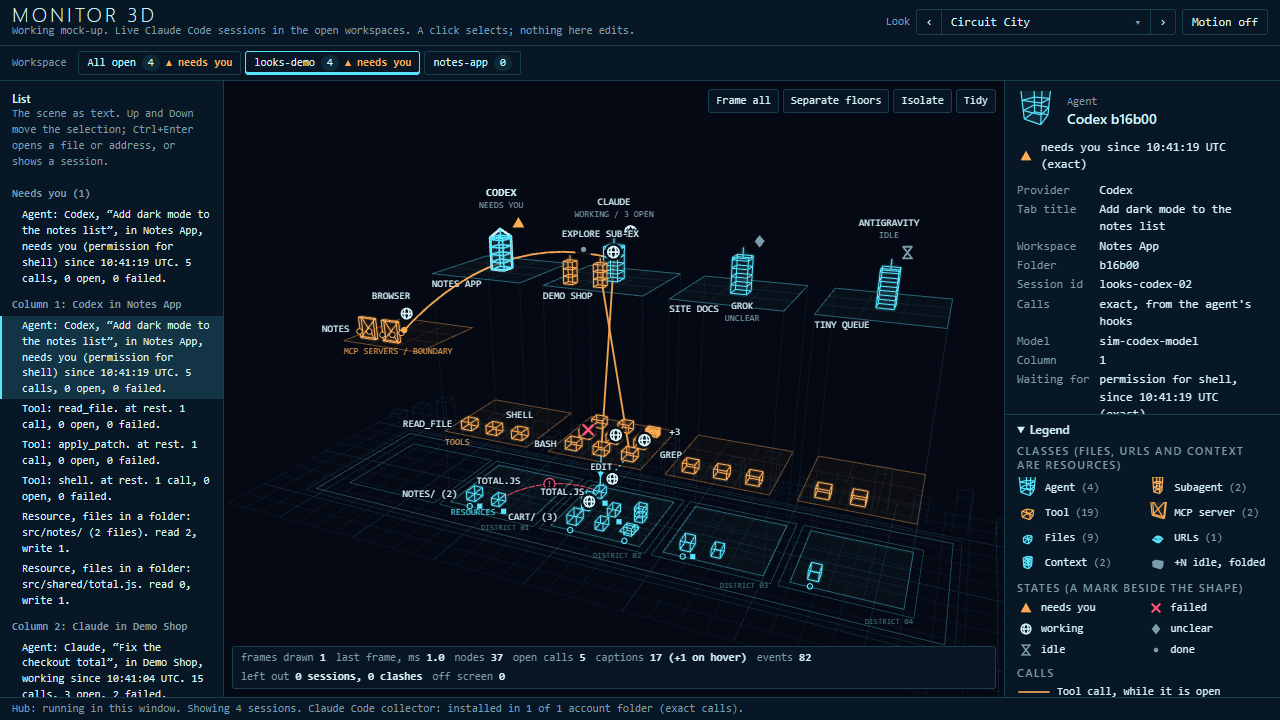
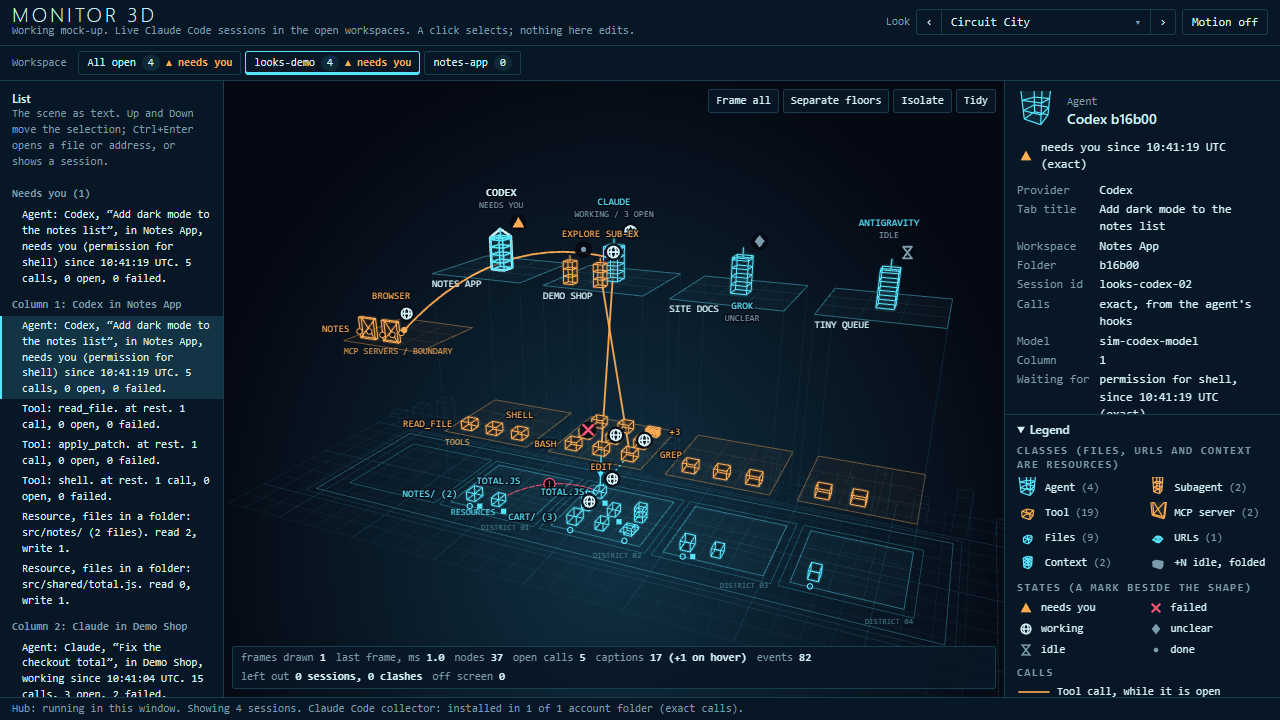
Looks: the five built originals take their own ground, caption colours and label font (card 5a6363)
lattice, circuit-city, orbital and synapse: the viewport's radial glow from the original's own
CSS, and each caption in its node's colour. glasshouse-original: its daylight gradient from above;
its two colours are under the caption floor (4.1 and 2.2 to 1), so its captions keep the page's teal.
circuit-city and orbital: the legend's small headings in the page's Consolas.
The five pictures are shot again; nexus, glasshouse and the two mock-ups shoot byte for byte as committed.

diff --git a/ui-concepts/monitor-3d-live/media/look-orbital.js b/ui-concepts/monitor-3d-live/media/look-orbital.js
@@ -13,8 +13,10 @@
  * contexts and accounts), scaled to a slot and standing on it; colours are the picture's (lilac globes for
  * agents, peach for the rest) and never a state's; the rings and stars are centred on the floors and sized
  * from them, and they stand still: nothing orbits. Left out: the moving planets and their moons' rings, the
- * workspace star's rings (there is no star node), the viewport's radial glow (a look has one background
- * colour), and separate corner radii for panels (16 px) and buttons (pills): one radius serves both.
+ * workspace star's rings (there is no star node), and separate corner radii for panels (16 px) and buttons
+ * (pills): one radius serves both. Kept since the contract's second round: the viewport's radial glow
+ * (palette.ground), each node's label in its own colour (palette.captionNode), and the panels' small labels
+ * in the page's Consolas under Georgia headings (page.labelFont).
  *
  * A look is palette, meshes, lettering and a still backdrop. It has no say in where a node stands.
  */
@@ -78,11 +80,16 @@
       // The source's own: peach for "waiting", its alert for "blocked", its text and quiet text for the rest.
       state: { needs: C.secondary, failed: C.alert, working: C.text, unclear: C.muted, idle: C.muted, done: C.muted },
       clash: C.alert,
+      // worlds.css .orbit .viewport: radial-gradient(ellipse at center, #111e35, #02040c 75%).
+      ground: { shape: 'round', at: [.5, .5], stops: [[0, '#111e35'], [.75, '#02040c']] },
+      // The source's engine.js line 75: a node's label is in the node's own colour (the selected one in the text colour).
+      captionNode: true,
       fill: .06, solid: .55, floorFill: .02, floorLine: .3, post: .25, captionBack: 0, captionHalo: .85
     },
     page: {
       ui: "Consolas, 'Liberation Mono', monospace",
       headFont: "Georgia, 'Times New Roman', serif",
+      labelFont: "Consolas, 'Liberation Mono', monospace",   // worlds.css .panel-label: the body's --mono, 7px, spaced 1.3px
       titleFont: "Georgia, 'Times New Roman', serif", titleStyle: 'italic', titleWeight: '400', titleSize: '20px',
       titleSpacing: '-0.5px', titleCase: 'none', titleColor: C.text,
       labelSpacing: '1.3px', labelCase: 'uppercase', radius: '14px'

diff --git a/ui-concepts/monitor-3d-live/media/look-circuit-city.js b/ui-concepts/monitor-3d-live/media/look-circuit-city.js
@@ -13,7 +13,9 @@
  * a slot; colours are the picture's (cyan for agents and resources, amber for the rest) and never a state's;
  * the districts are the columns, numbered, not providers; the grid lies under the floors, not round a
  * downtown. Left out: the road traffic and every other thing that moves, the skybridges (they would cross
- * the floors), the downtown rings, the viewport's radial glow and scan lines (a look has one background colour).
+ * the floors), the downtown rings, and the viewport's scan lines. Kept since the contract's second round: the
+ * viewport's radial glow (palette.ground), each node's label in its own colour (palette.captionNode), and the
+ * panels' small labels in the page's Consolas under Segoe UI headings (page.labelFont).
  *
  * A look is palette, meshes, lettering and a still backdrop. It has no say in where a node stands.
  */
@@ -57,11 +59,16 @@
       // The source's own: amber for "waiting", its alert for "blocked", its text and quiet text for the rest.
       state: { needs: C.secondary, failed: C.alert, working: C.text, unclear: C.muted, idle: C.muted, done: C.muted },
       clash: C.alert,
+      // worlds.css .city .viewport: radial-gradient(ellipse at 50% 75%, #103143, var(--bg) 75%).
+      ground: { shape: 'round', at: [.5, .75], stops: [[0, '#103143'], [.75, C.bg]] },
+      // The source's engine.js line 75: a node's label is in the node's own colour (the selected one in the text colour).
+      captionNode: true,
       fill: .06, solid: .6, floorFill: .03, floorLine: .4, post: .35, captionBack: 0, captionHalo: .85
     },
     page: {
       ui: "Consolas, 'Liberation Mono', monospace",
       headFont: "'Segoe UI', Arial, sans-serif",
+      labelFont: "Consolas, 'Liberation Mono', monospace",   // worlds.css .panel-label: the body's --mono, 7px, spaced 1.3px
       titleFont: "'Segoe UI', Arial, sans-serif", titleStyle: 'normal', titleWeight: '300', titleSize: '20px',
       titleSpacing: '3px', titleCase: 'uppercase', titleColor: C.text,
       labelSpacing: '1.3px', labelCase: 'uppercase', radius: '3px'

diff --git a/ui-concepts/monitor-3d-live/media/look-lattice.js b/ui-concepts/monitor-3d-live/media/look-lattice.js
@@ -4,7 +4,8 @@
  * nexus-3d/ui-concepts/nexus-lattice-29d4d1/scene.js and style.css; picture docs/monitor-3d/img/before/lattice.png.
  * Taken as they are: the type colours (scene.js line 4), the octahedron, cube and ring meshes and their radii
  * (geometry() and nodeRadius()), the ground grid with every fourth line stronger, the three rings round the
- * centre and the four zone names lying on the ground (draw()), and the page's colours and lettering (style.css).
+ * centre and the four zone names lying on the ground (draw()), each label in its node's colour, and the page's colours
+ * and lettering and the stage's glow with its dark edges (style.css).
  * Changed: the original's twelve types are given to the monitor's five classes (agent the control cyan octahedron,
  * subagent the pale-blue smaller octahedron, tool the mint cube, MCP server the amber ring of main and remote,
  * resource the violet ring of context); the second violet and the second amber colour the resource and MCP floors,
@@ -72,6 +73,11 @@
       // label's white; the quiet ones: its grey-blue texts (#a6ccd4, --muted, .dim).
       state: { needs: '#ffce7b', failed: '#ff647f', working: '#e2fbff', unclear: '#a6ccd4', idle: '#7697a8', done: '#638493' },
       clash: '#ff647f',
+      // style.css .stage: radial-gradient(ellipse at 50% 75%, #0b2630 0%, #06111c 45%, #030910 95%): a glow low in the
+      // middle, dark edges.
+      ground: { shape: 'round', at: [.5, .75], stops: [[0, '#0b2630'], [.45, '#06111c'], [.95, '#030910']] },
+      // scene.js line 77: a node's label is in the node's own colour (the selected one in white).
+      captionNode: true,
       // Wireframe through and through: nothing filled and nothing hidden, as the original drew it.
       // captionHalo: the original's labels had a dark shadow (#020910, blur 4) round their letters.
       fill: 0, solid: 0, floorFill: 0, floorLine: .4, post: .45, captionBack: 0, captionHalo: .8

diff --git a/ui-concepts/monitor-3d-live/media/look-glasshouse-original.js b/ui-concepts/monitor-3d-live/media/look-glasshouse-original.js
@@ -16,8 +16,10 @@
  * - The original had no MCP server, URL or folded pile: an MCP server takes the original's integration slab
  *   (main / remote), a URL a smaller one, a file and a context the original's context chip, a pile the
  *   original's worktree plates.
- * - The title is 20 px, the most the bar holds (46 px in the original); the stage is one colour where the
- *   original had a faint gradient from #f5f7f1 to #e5ede4.
+ * - The title is 20 px, the most the bar holds (46 px in the original).
+ * - The original lettered each node in its own colour. Here every caption keeps the page's dark teal: on this pale
+ *   ground the original's two colours have a contrast of 4.1 and 2.2 to 1, under the 4.5 a caption must have
+ *   (LOOKS.md), so palette.captionNode would change nothing and is left out.
  *
  * Kept apart from its two relatives (`glasshouse`, `glasshouse-mockup`): two colours only, the original's flat
  * chips (an agent is a three-step chip, not a solid or a tower with a mast), lift shafts, the salmon floor,
@@ -60,6 +62,8 @@
       // have (it had one alert colour, and the two marks must be told apart by more than shape on a pale floor).
       state: { needs: '#b87700', failed: O.alert, working: O.text, unclear: O.muted, idle: O.muted, done: O.secondary },
       clash: O.alert,
+      // worlds.css line 8, .glass .viewport: linear-gradient(#f5f7f1, #e5ede4): daylight from above.
+      ground: { shape: 'straight', from: [.5, 0], to: [.5, 1], stops: [[0, '#f5f7f1'], [1, '#e5ede4']] },
       // Flat chips over clear glass. The original's labels stood on a soft shadow of the background: a halo.
       fill: .24, solid: .9, floorFill: .035, floorLine: .42, post: .3, captionBack: 0, captionHalo: .9
     },

diff --git a/ui-concepts/monitor-3d-live/media/look-synapse.js b/ui-concepts/monitor-3d-live/media/look-synapse.js
@@ -18,8 +18,9 @@
  * - The original had no MCP server, URL, file or folded pile: an MCP server takes the original account's
  *   loop with a bead in it, a file and a URL the original worktree's mint diamond, a context the
  *   original's context bead, a pile three small beads.
- * - The title is 20 px, the most the bar holds (49 px in the original); the stage is one colour, the
- *   original's ground, where the original was a little lighter towards the middle (#2f103b).
+ * - The title is 20 px, the most the bar holds (49 px in the original).
+ * Kept since the contract's second round: the viewport's glow, lighter a little left of the middle
+ * (palette.ground), and each node's label in its own colour (palette.captionNode).
  *
  * A look is palette, meshes and caption style. It has no say in where a node stands. See LOOKS.md.
  */
@@ -84,6 +85,10 @@
       // (engine.js line 4, #ffd48a); "done" the trunk's violet, quieter than idle's muted.
       state: { needs: '#ffd48a', failed: O.alert, working: O.text, unclear: O.muted, idle: O.muted, done: TRUNK },
       clash: O.alert,
+      // worlds.css line 10, .synapse .viewport: radial-gradient(ellipse at 45% 50%, #2f103b, #100817 75%).
+      ground: { shape: 'round', at: [.45, .5], stops: [[0, '#2f103b'], [.75, O.bg]] },
+      // The original's engine.js line 75: a node's label is in the node's own colour (the selected one in the text colour).
+      captionNode: true,
       // Wireframe beads with a soft glow; the original's labels stood on a shadow of the ground: a halo.
       fill: .08, solid: .85, floorFill: 0, floorLine: .22, post: .16, captionBack: 0, captionHalo: .8
     },
